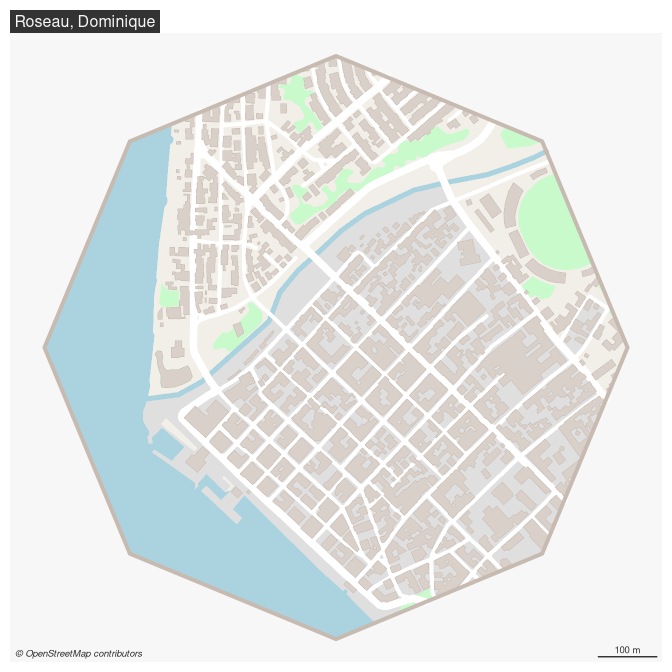
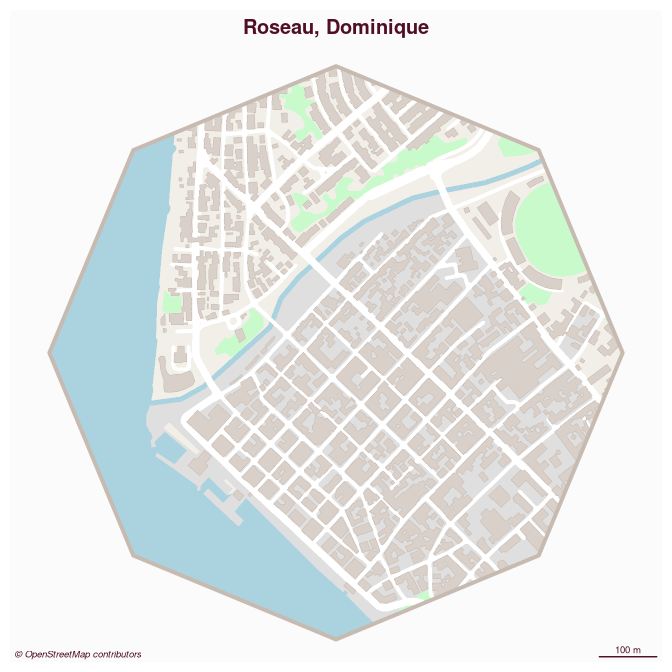
chore: increase version, add NEWS, update README, codemeta and cff

diff --git a/README.md b/README.md
@@ -43,20 +43,20 @@ library(maposm)
 #> Data © OpenStreetMap contributors, ODbL 1.0. https://www.openstreetmap.org/copyright.
 #> Maps based on OpenStreetMap data should cite "© OpenStreetMap contributors" as the data source.
 castries = om_get(x = c(-60.9903, 14.0096), r = 2000)
-#> Getting urban areas: 1.187 sec elapsed
-#> Getting buildings: 7.659 sec elapsed
-#> Getting green areas: 0.715 sec elapsed
-#> Getting roads: 0.306 sec elapsed
-#> Getting streets: 1.013 sec elapsed
-#> Getting railways: 0.331 sec elapsed
-#> Getting water bodies: 7.734 sec elapsed
+#> Getting urban areas: 0.878 sec elapsed
+#> Getting buildings: 6.82 sec elapsed
+#> Getting green areas: 1.393 sec elapsed
+#> Getting roads: 0.557 sec elapsed
+#> Getting streets: 0.732 sec elapsed
+#> Getting railways: 0.459 sec elapsed
+#> Getting water bodies: 11.854 sec elapsed
 om_map(x = castries, title = "Castries, Saint Lucia", theme = "light")
 ```
 
 ![](man/figures/README-example-1.png)<!-- -->
 
-Several themes are available to map the layers (“light”, “dark” and
-“grey”).
+Several themes are available to map the layers (“light”, “dark”, “grey”
+and “pizza”).
 
 ``` r
 om_map(x = castries, title = "Castries, Saint Lucia", theme = "grey")

diff --git a/NEWS.md b/NEWS.md
@@ -1,0 +1,12 @@
+# maposm 0.2.0
+
+## fix
+- speed improvement with simpler buffers 
+- better management of input and output CRSs
+- increase request timeout and max memsize 
+- increase maximum surface to allow building download
+- better water body detection
+
+## feat
+- new map theme "pizza"
+- add service roads and aeroways